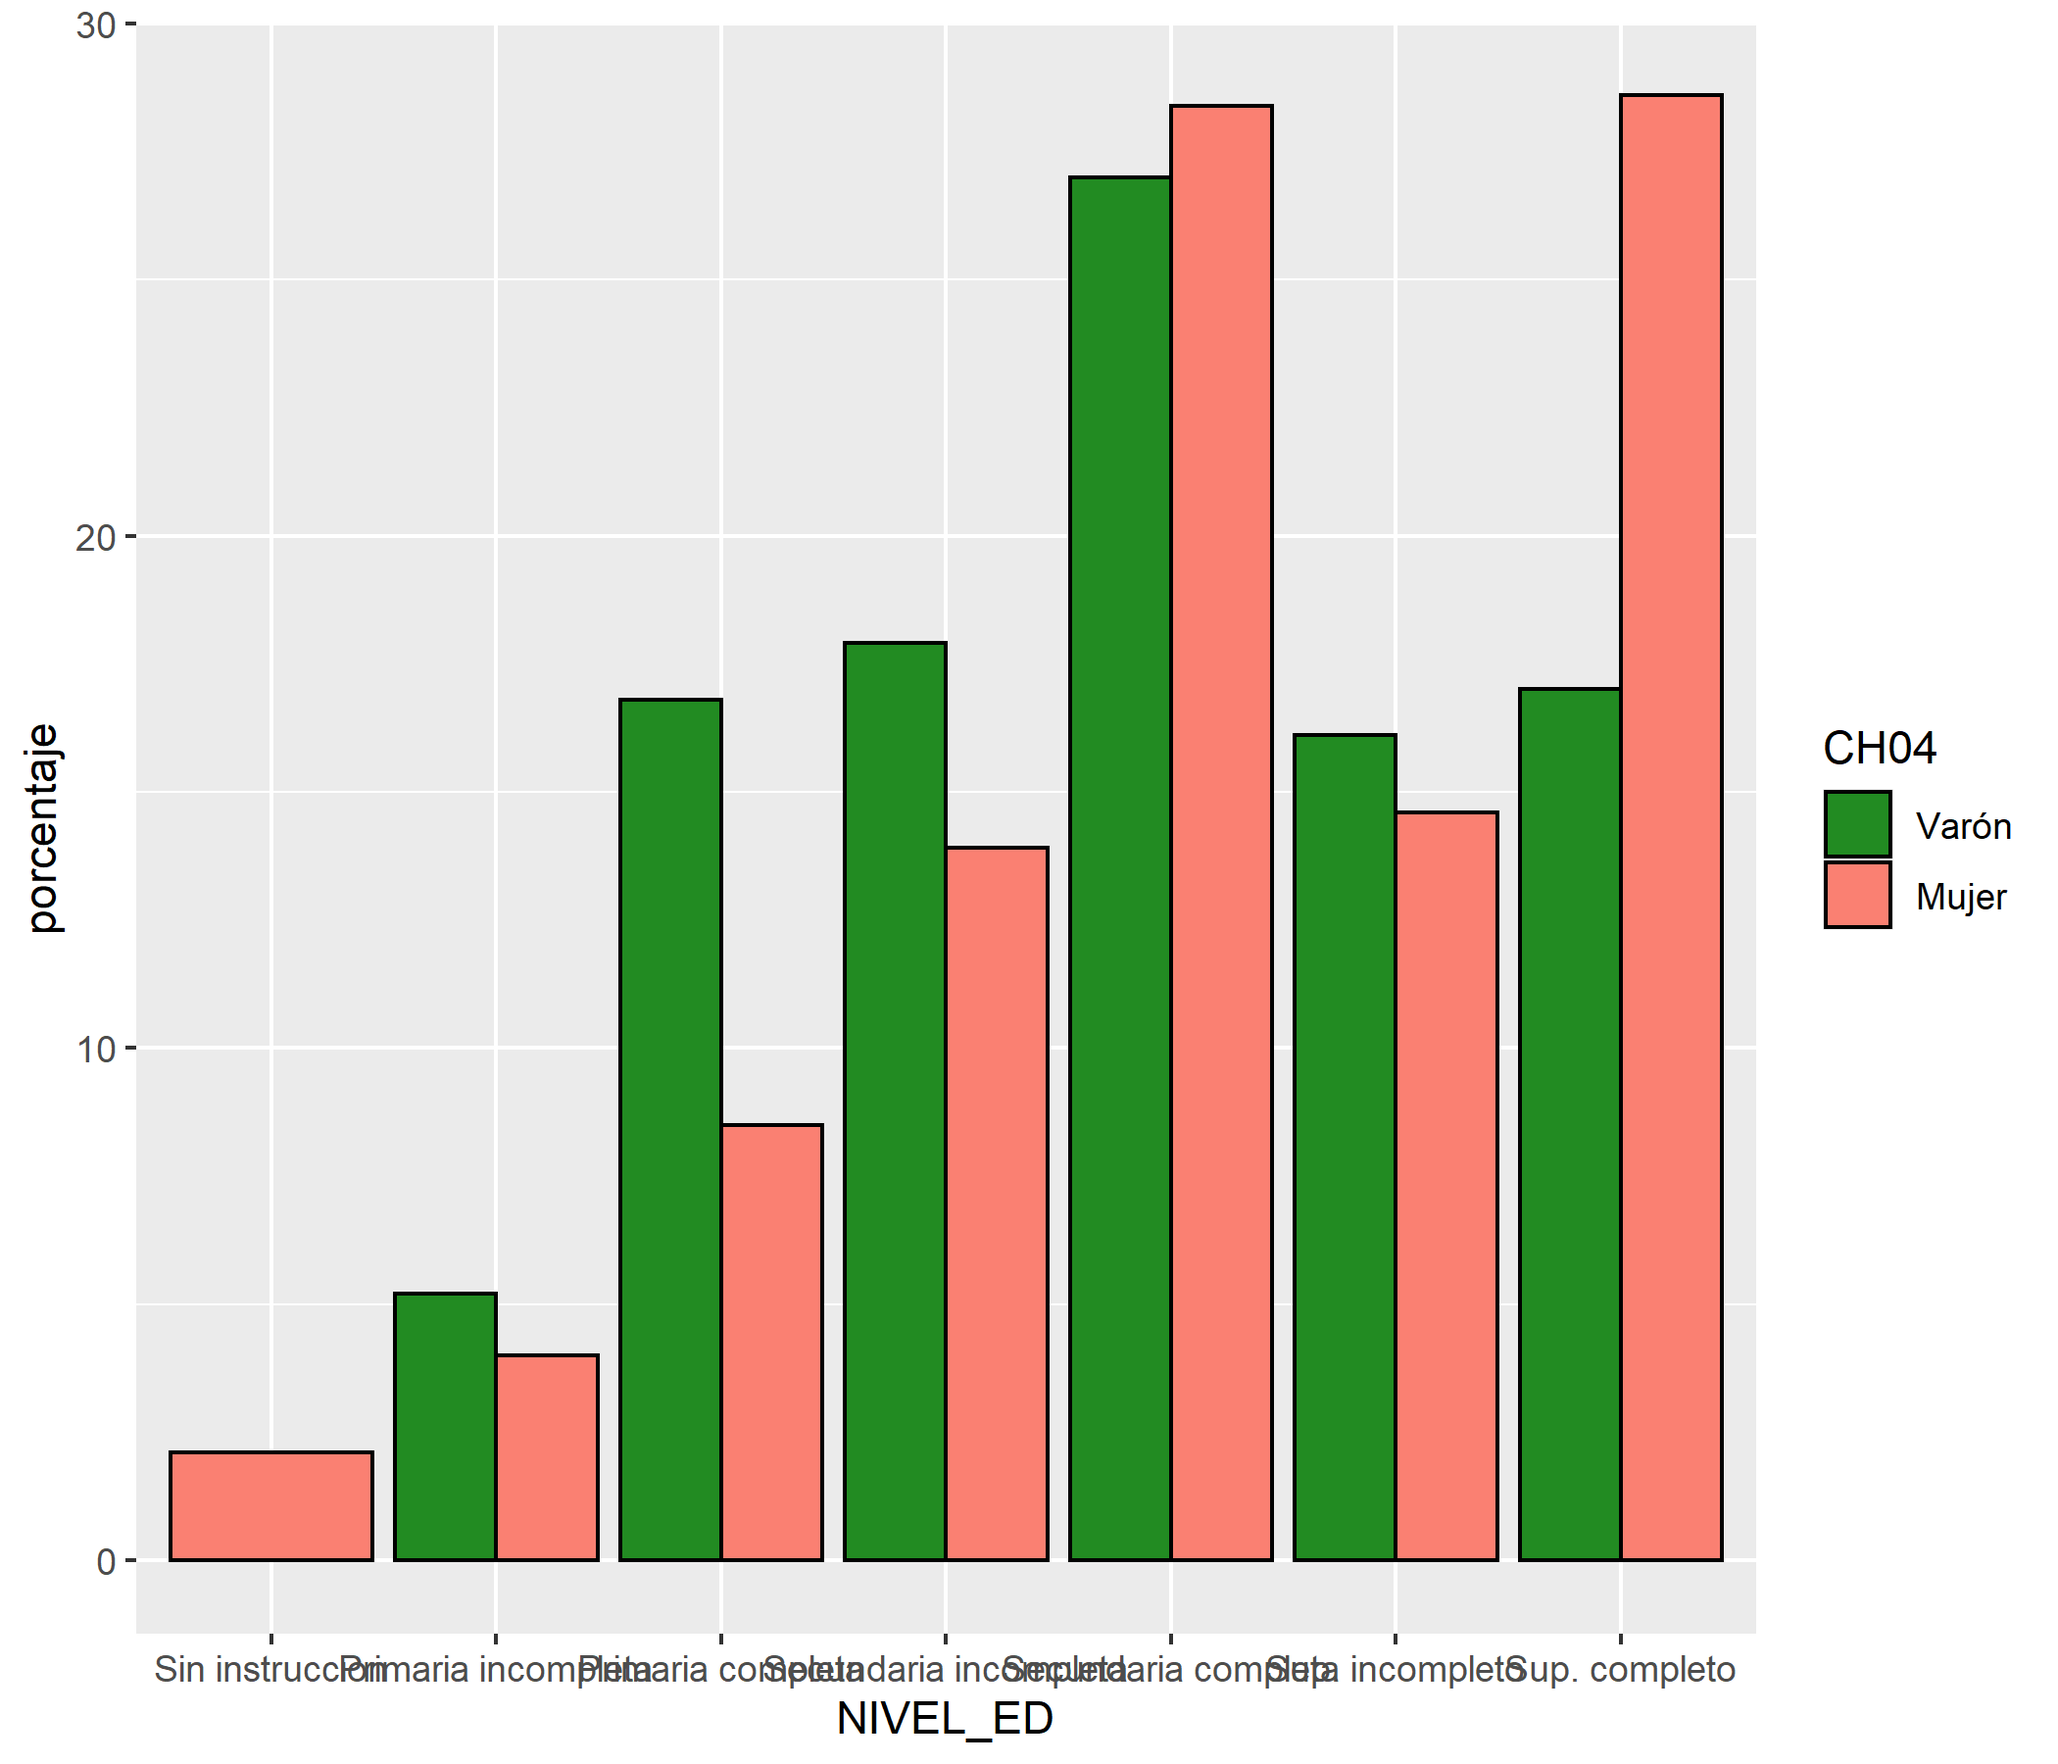
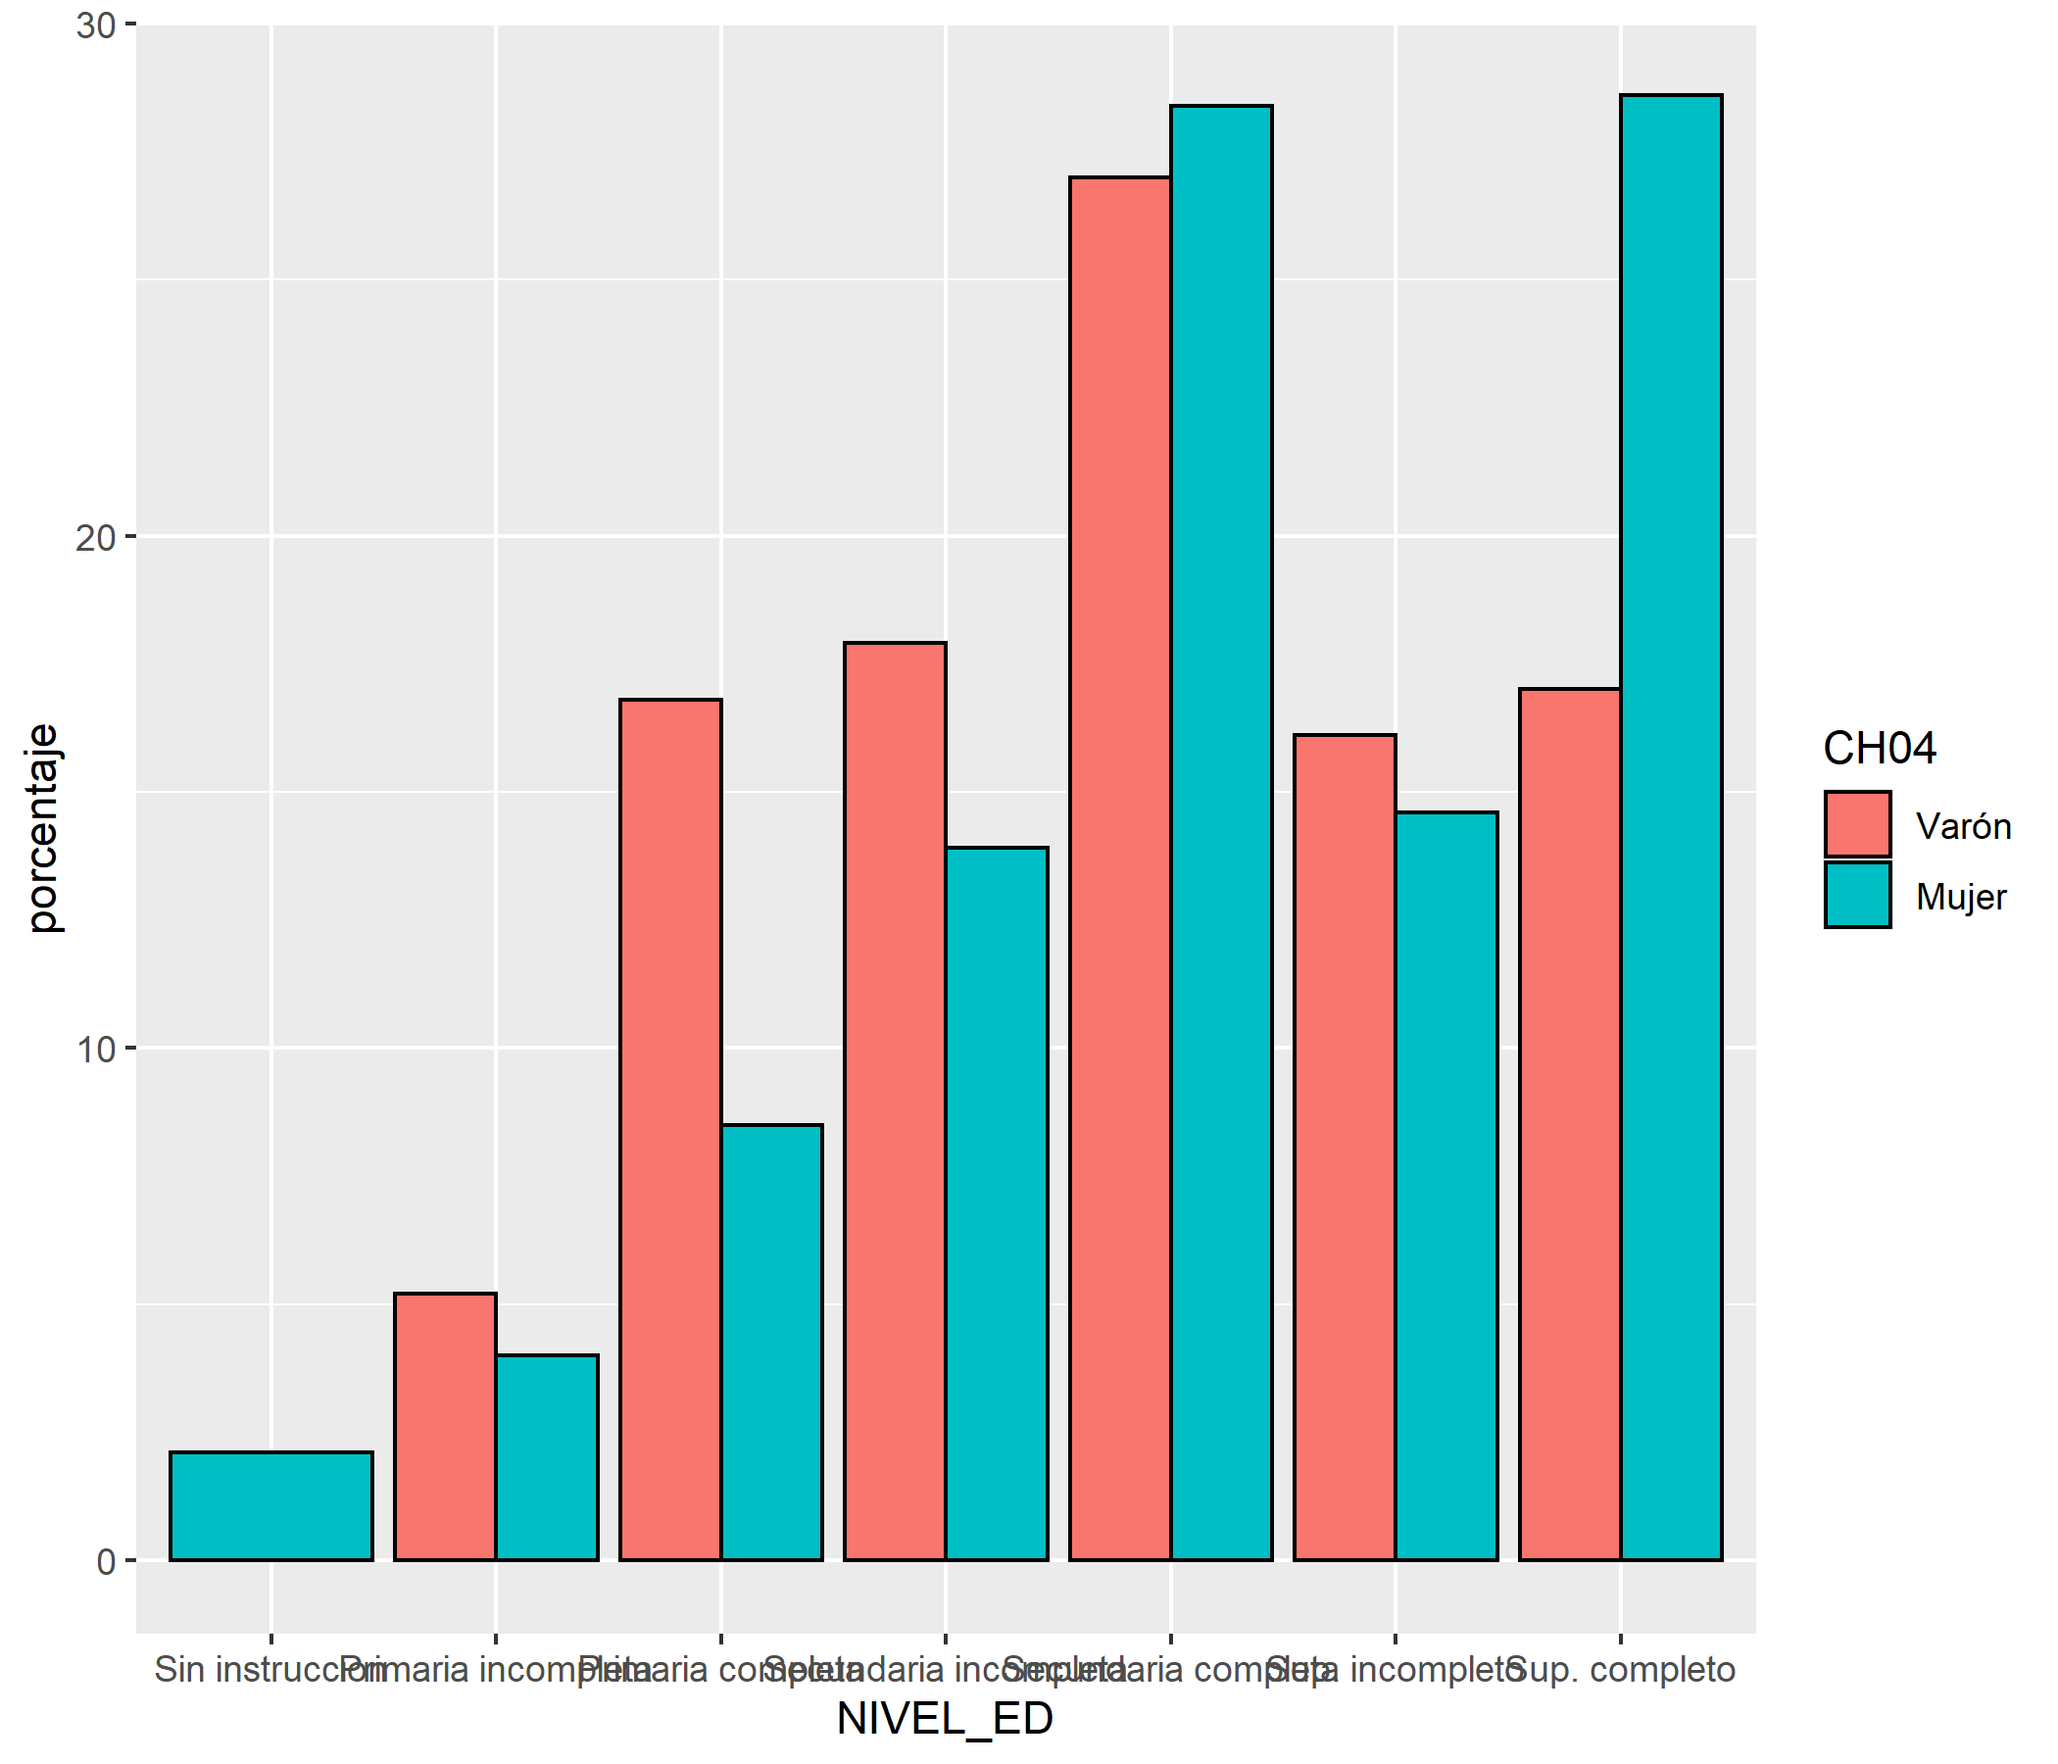
actualizo

Changed region(s): [[0.0619, 0.0311, 0.8357, 0.9022], [0.8667, 0.4356, 0.9286, 0.5289]]

diff --git a/Módulo 3 - Visualización de la información/Modulo_3_Presentacion.html b/Módulo 3 - Visualización de la información/Modulo_3_Presentacion.html
@@ -1107,26 +1107,9 @@ ggplot(data = base_graf,
        aes(x = NIVEL_ED,  
            y = porcentaje,  
            fill = CH04)) +  
-* geom_col(color = "black",
-*          position = "dodge")
-```
-]]
-.column[.content[
-&lt;img src="Modulo_3_Presentacion_files/figure-html/output_g6_6-1.png" width="100%" /&gt;
-]]
----
-class: split-40
-count: false
-.column[.content[
-
-```r
-ggplot(data = base_graf,  
-       aes(x = NIVEL_ED,  
-           y = porcentaje,  
-           fill = CH04)) +  
-  geom_col(color = "black",  
-           position = "dodge") +  
-* scale_fill_manual(values = c("forestgreen", "salmon"))
+* geom_bar(color = "black",
+*          position = "dodge",
+*          stat = "identity")
 ```
 ]]
 .column[.content[
@@ -1142,10 +1125,10 @@ ggplot(data = base_graf,
        aes(x = NIVEL_ED,  
            y = porcentaje,  
            fill = CH04)) +  
-  geom_col(color = "black",  
-           position = "dodge") +  
-  scale_fill_manual(values = c("forestgreen", "salmon")) +  
-* theme_minimal()
+  geom_bar(color = "black",  
+           position = "dodge",  
+           stat = "identity") +  
+* scale_fill_manual(values = c("forestgreen", "#c51b8a"))
 ```
 ]]
 .column[.content[
@@ -1161,16 +1144,15 @@ ggplot(data = base_graf,
        aes(x = NIVEL_ED,  
            y = porcentaje,  
            fill = CH04)) +  
-  geom_col(color = "black",  
-           position = "dodge") +  
-  scale_fill_manual(values = c("forestgreen", "salmon")) +  
-  theme_minimal() +  
-* theme(axis.text.x = element_text(angle = 35,
-*                                  vjust = 0.5))
+  geom_bar(color = "black",  
+           position = "dodge",  
+           stat = "identity") +  
+  scale_fill_manual(values = c("forestgreen", "#c51b8a")) +  
+* theme_minimal()
 ```
 ]]
 .column[.content[
-&lt;img src="Modulo_3_Presentacion_files/figure-html/output_g6_10-1.png" width="100%" /&gt;
+&lt;img src="Modulo_3_Presentacion_files/figure-html/output_g6_9-1.png" width="100%" /&gt;
 ]]
 ---
 class: split-40
@@ -1182,9 +1164,32 @@ ggplot(data = base_graf,
        aes(x = NIVEL_ED,  
            y = porcentaje,  
            fill = CH04)) +  
-  geom_col(color = "black",  
-           position = "dodge") +  
-  scale_fill_manual(values = c("forestgreen", "salmon")) +  
+  geom_bar(color = "black",  
+           position = "dodge",  
+           stat = "identity") +  
+  scale_fill_manual(values = c("forestgreen", "#c51b8a")) +  
+  theme_minimal() +  
+* theme(axis.text.x = element_text(angle = 35,
+*                                  vjust = 0.5))
+```
+]]
+.column[.content[
+&lt;img src="Modulo_3_Presentacion_files/figure-html/output_g6_11-1.png" width="100%" /&gt;
+]]
+---
+class: split-40
+count: false
+.column[.content[
+
+```r
+ggplot(data = base_graf,  
+       aes(x = NIVEL_ED,  
+           y = porcentaje,  
+           fill = CH04)) +  
+  geom_bar(color = "black",  
+           position = "dodge",  
+           stat = "identity") +  
+  scale_fill_manual(values = c("forestgreen", "#c51b8a")) +  
   theme_minimal() +  
   theme(axis.text.x = element_text(angle = 35,  
                                    vjust = 0.5)) +  
@@ -1195,7 +1200,7 @@ ggplot(data = base_graf,
 ```
 ]]
 .column[.content[
-&lt;img src="Modulo_3_Presentacion_files/figure-html/output_g6_14-1.png" width="100%" /&gt;
+&lt;img src="Modulo_3_Presentacion_files/figure-html/output_g6_15-1.png" width="100%" /&gt;
 ]]
 ---
 class: split-40
@@ -1207,9 +1212,10 @@ ggplot(data = base_graf,
        aes(x = NIVEL_ED,  
            y = porcentaje,  
            fill = CH04)) +  
-  geom_col(color = "black",  
-           position = "dodge") +  
-  scale_fill_manual(values = c("forestgreen", "salmon")) +  
+  geom_bar(color = "black",  
+           position = "dodge",  
+           stat = "identity") +  
+  scale_fill_manual(values = c("forestgreen", "#c51b8a")) +  
   theme_minimal() +  
   theme(axis.text.x = element_text(angle = 35,  
                                    vjust = 0.5)) +  
@@ -1223,7 +1229,7 @@ ggplot(data = base_graf,
 ```
 ]]
 .column[.content[
-&lt;img src="Modulo_3_Presentacion_files/figure-html/output_g6_17-1.png" width="100%" /&gt;
+&lt;img src="Modulo_3_Presentacion_files/figure-html/output_g6_18-1.png" width="100%" /&gt;
 ]]
     </textarea>
 <style data-target="print-only">@media screen {.remark-slide-container{display:block;}.remark-slide-scaler{box-shadow:none;}}</style>
